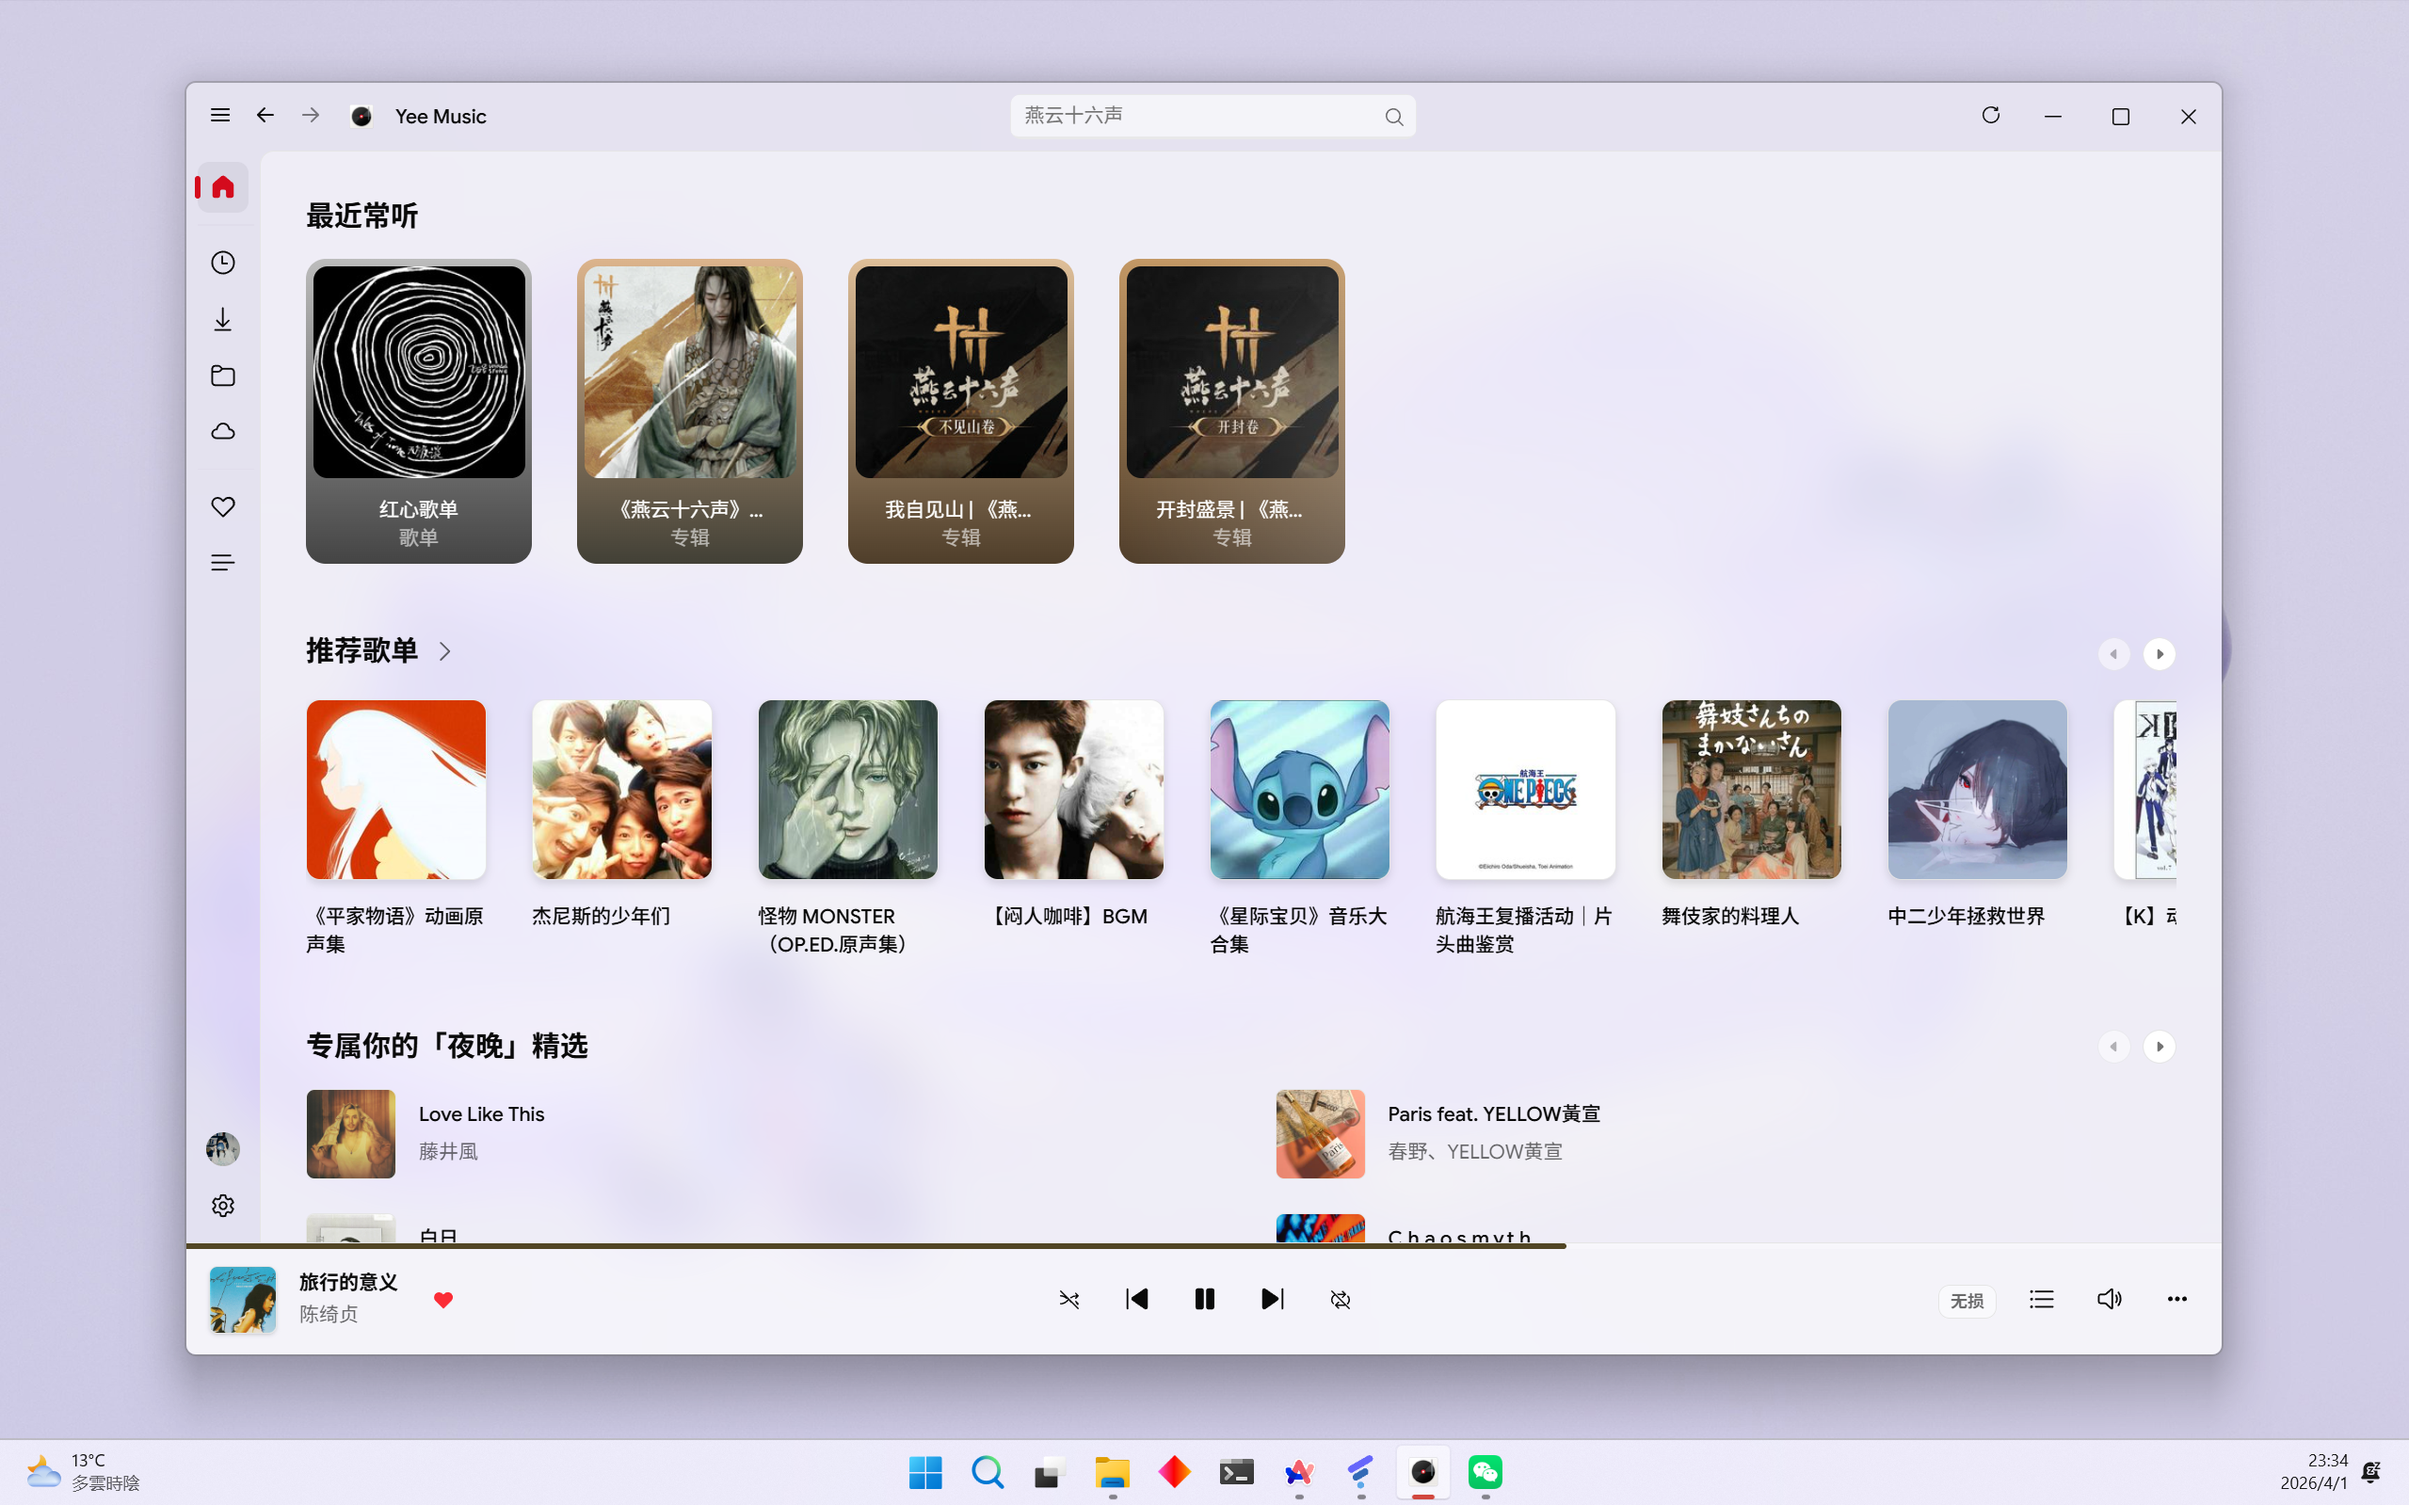
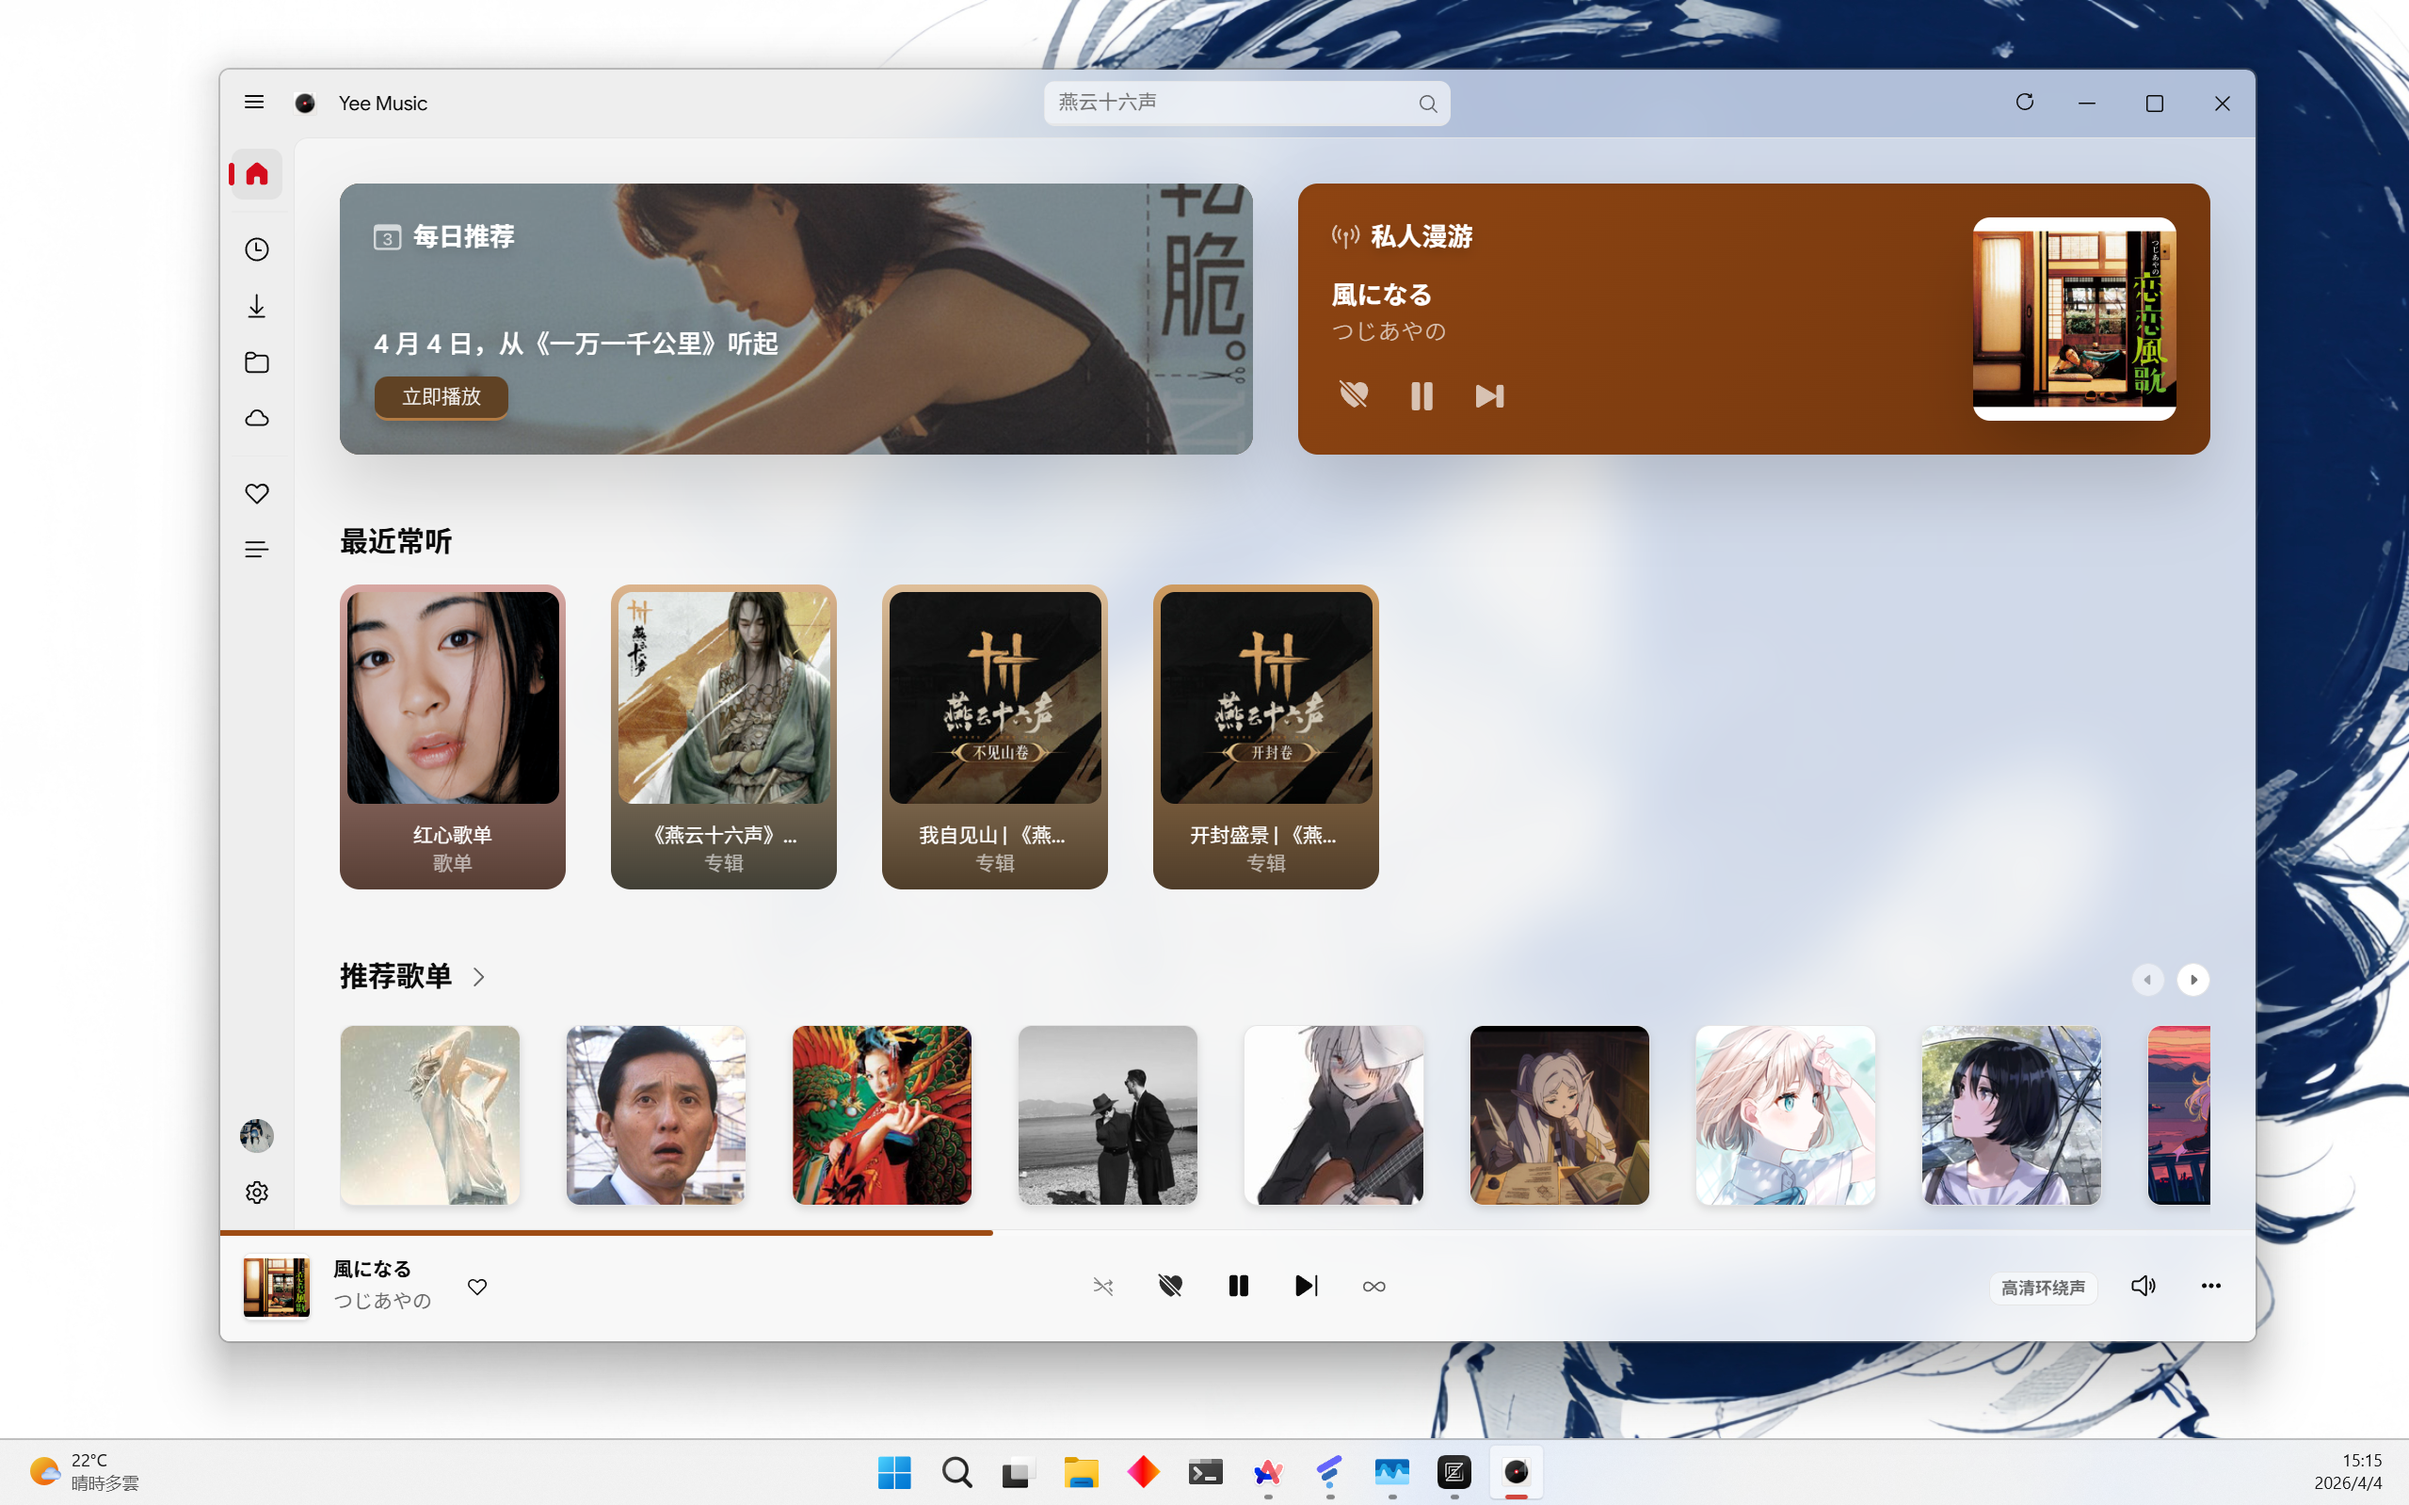
style: 调整 TitleBar 的样式，更加符合 WinUI 3 docs: 修改 README 配图

diff --git a/src/components/titlebar/titlebar.tsx b/src/components/titlebar/titlebar.tsx
@@ -1,7 +1,6 @@
 import {
   ArrowClockwise24Regular,
   ArrowLeft24Filled,
-  ArrowRight24Filled,
   Dismiss24Regular,
   Maximize24Regular,
   Navigation24Filled,
@@ -18,10 +17,11 @@ import { useNavigate } from "react-router-dom";
 import { useNavigationHistory } from "@/hooks/use-navigation-history";
 import { YeeButton } from "../yee-button";
 import { useRef } from "react";
+import { motion, AnimatePresence } from "framer-motion";
 
 export function Titlebar() {
   const navigate = useNavigate();
-  const { canGoBack, canGoForward } = useNavigationHistory();
+  const { canGoBack } = useNavigationHistory();
   const { onRefresh, isRefreshing } = useTitlebar();
   const { minimize, toogleMaximize, close, isMaximized, startDragging } =
     useAppWindow();
@@ -57,48 +57,60 @@ export function Titlebar() {
         e.preventDefault();
       }}
     >
-      <div className="flex items-center gap-2 pl-3 flex-1 shrink-0 min-w-0">
-        <YeeButton
-          variant="ghost"
-          className="cursor-pointer shrink-0 hover:bg-foreground/5 rounded-sm size-6"
-          icon={<Navigation24Filled className="size-4" />}
-          onClick={toggleSidebar}
-          onMouseDown={(e) => e.stopPropagation()}
-        />
+      <motion.div
+        layout
+        className="flex items-center gap-2 pl-3 flex-1 shrink-0 min-w-0"
+      >
+        <AnimatePresence mode="popLayout">
+          {canGoBack && (
+            <motion.div
+              key="back-button"
+              initial={{ opacity: 0, x: -12, scale: 0.8 }}
+              animate={{ opacity: 1, x: 0, scale: 1 }}
+              exit={{ opacity: 0, x: -12, scale: 0.8 }}
+              transition={{ type: "spring", stiffness: 350, damping: 25 }}
+              className="shrink-0"
+            >
+              <YeeButton
+                variant="ghost"
+                className="cursor-pointer hover:bg-foreground/5 rounded-sm size-6"
+                icon={<ArrowLeft24Filled className="size-4" />}
+                onMouseDown={(e) => e.stopPropagation()}
+                onClick={() => navigate(-1)}
+              />
+            </motion.div>
+          )}
+        </AnimatePresence>
 
-        <YeeButton
-          variant="ghost"
-          className="cursor-pointer shrink-0 hover:bg-foreground/5 rounded-sm size-6"
-          icon={<ArrowLeft24Filled className="size-4" />}
-          disabled={!canGoBack}
-          onMouseDown={(e) => e.stopPropagation()}
-          onClick={() => navigate(-1)}
-        />
+        <motion.div
+          layout
+          transition={{ type: "spring", stiffness: 350, damping: 25 }}
+          className="flex items-center gap-2"
+        >
+          <YeeButton
+            variant="ghost"
+            className="cursor-pointer shrink-0 hover:bg-foreground/5 rounded-sm size-6"
+            icon={<Navigation24Filled className="size-4" />}
+            onClick={toggleSidebar}
+            onMouseDown={(e) => e.stopPropagation()}
+          />
 
-        <YeeButton
-          variant="ghost"
-          className="cursor-pointer shrink-0 hover:bg-foreground/5 rounded-sm size-6"
-          icon={<ArrowRight24Filled className="size-4" />}
-          disabled={!canGoForward}
-          onMouseDown={(e) => e.stopPropagation()}
-          onClick={() => navigate(1)}
-        />
-
-        <div className="flex items-center gap-2 truncate group-data-[collapsible=icon]:hidden shrink-0">
-          <div className="flex aspect-square size-8 items-center justify-center rounded-lg">
-            <img
-              src="/icons/logo.png"
-              alt="Yee Music Logo"
-              width={20}
-              height={20}
-              className="rounded-sm"
-            />
+          <div className="flex items-center gap-2 truncate group-data-[collapsible=icon]:hidden shrink-0">
+            <div className="flex aspect-square size-8 items-center justify-center rounded-lg">
+              <img
+                src="/icons/logo.png"
+                alt="Yee Music Logo"
+                width={20}
+                height={20}
+                className="rounded-sm"
+              />
+            </div>
+            <span className="truncate font-light text-sm text-foreground">
+              Yee Music
+            </span>
           </div>
-          <span className="truncate font-medium text-sm text-foreground">
-            Yee Music
-          </span>
-        </div>
-      </div>
+        </motion.div>
+      </motion.div>
 
       <div className="flex flex-1 justify-center shrink-0 min-w-50">
         <div onMouseDown={(e) => e.stopPropagation()}>
